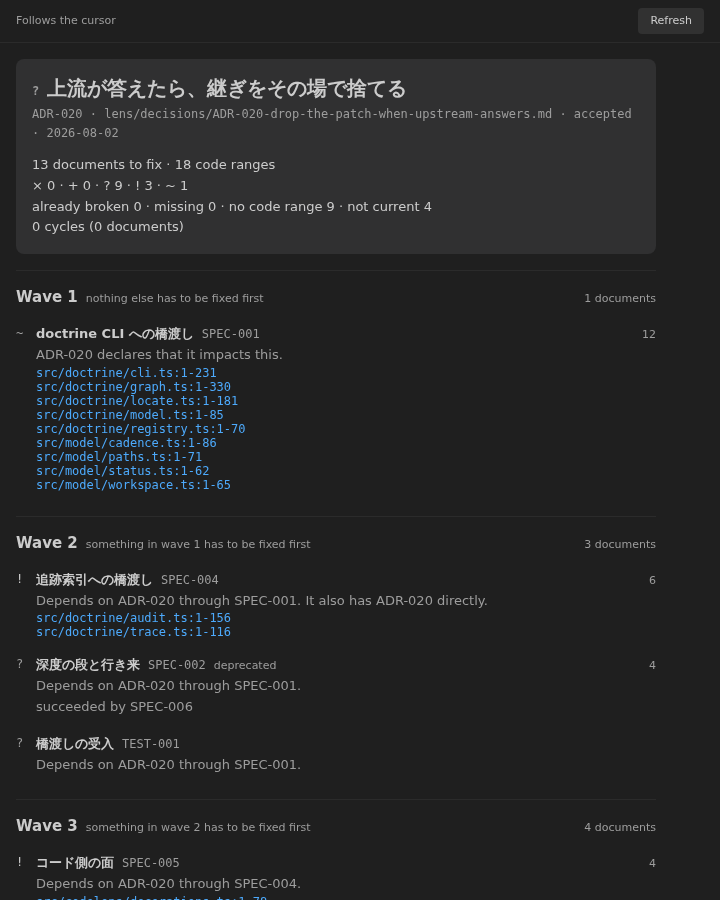
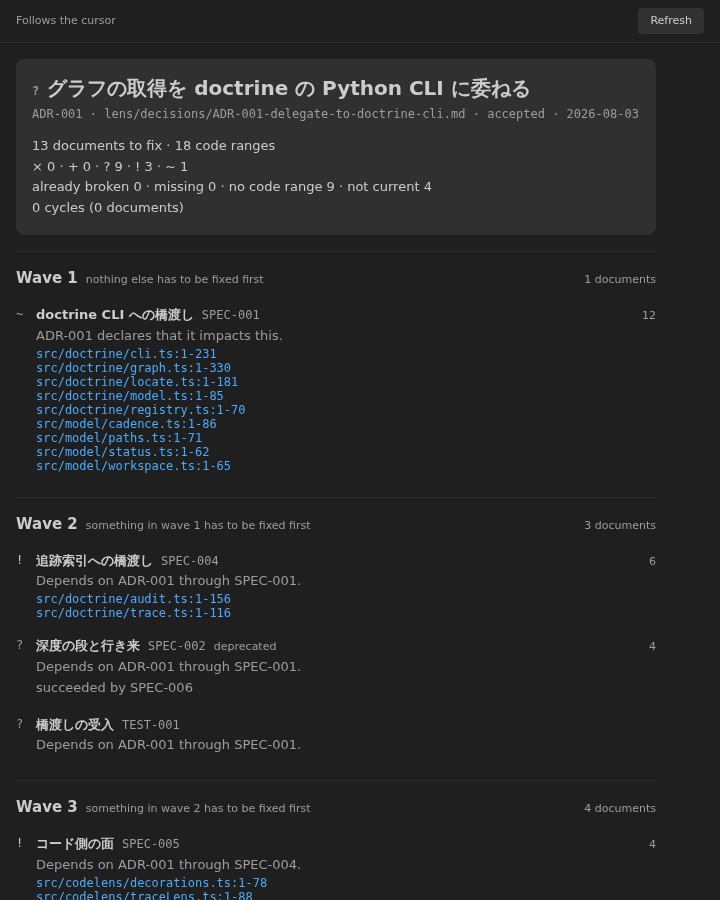
決定を変えても直すものが出てこなかった（CHANGE-020）
ADR-008（取得を二つの拍に分ける）を起点に置くと、明細は 0 行だった。
実装は src/session.ts と src/model/cadence.ts に在るのに、辺が無いので
この製品が何も教えない。同じ形が七本（ADR-001・006〜011）。

上流は正しく判じている。adr_not_landed は本文の id 参照も数えており、
七本とも現行の文書から本文で参照されているので鳴らない。「決定が文書の
上で着地しているか」と「変えたときに何を直すかが引けるか」は別である。
上流は前者を見ている。後者はこの製品の問いであり、この製品が自分の木で
答えられていなかった。

逆から測った。「この ADR は何を縛っているか」を本文から読むと、七本の
うち六本は自分では何も引いていない。代わりに「どの文書がこの ADR を
引いているか」を測り、引いている先だけを impacts に書いた。辺を捏造しない。

  ADR-008 起点: 0 件 → 13 文書・コード 18 か所・波 5
  辺を持たない現行の文書: 13 件 → 6 件

残る 6 件（CTXMAP-001・DECIDED-001・NONGOAL-001・OVERVIEW-001・
OVERVIEW-002・REQ-000）は辺を持たないのが正しい形である。投影と横断の
正本であり、ADR-026 が「辺では指さず、本文で参照する」と決めている。

門にしなかった。型で除くだけの門はこの 6 件を毎回咎める。「辺を持たない
のが正しい型」を実装が持つと、上流の語彙を持つことになる（REQ-003）。

ADR は不変なので本文は一字も触っていない。impacts は決定の中身ではなく、
決定がどこへ効くかの宣言である。

門: 単体 232・check exit 0・監査 error 0 / warn 0 / advisory 0。

diff --git a/doctrine_docs/lens/decisions/CHANGE-020-decisions-with-no-edges.md b/doctrine_docs/lens/decisions/CHANGE-020-decisions-with-no-edges.md
@@ -1,0 +1,121 @@
+---
+id: CHANGE-020
+title: 決定を変えても、直すものが出てこない
+type: CHANGE
+domain: lens
+status: accepted
+owner: doctrine-lens-maintainer
+created: 2026-08-03
+updated: 2026-08-03
+sources: []
+impacts: [SPEC-006]
+llm_context: task
+---
+
+# 決定を変えても、直すものが出てこない
+
+## 何が起きているか
+
+**`ADR-008`（取得を二つの拍に分ける）を起点に置くと、明細は 0 行である。**
+
+```
+直すことになる文書 0 件 / 前提 0 / 繋がらない 92
+```
+
+だがこの決定の実装は在る——`src/session.ts` と `src/model/cadence.ts` である。
+**決定を変えても、この製品は何も教えない。**
+
+同じ形が七本ある。
+
+| | 題 | 辺 |
+|---|---|---|
+| `ADR-001` | グラフの取得を doctrine の Python CLI に委ねる | **0** |
+| `ADR-006` | 作業フォルダが複数のときは統治木を持つものを選ぶ | **0** |
+| `ADR-007` | 表示の原文を英語にし、日本語を翻訳として持つ | **0** |
+| `ADR-008` | 取得を二つの拍に分ける | **0** |
+| `ADR-009` | 既定のキー割り当てを持たない | **0** |
+| `ADR-010` | 実行体を選ぶ設定は作業フォルダから上書きさせない | **0** |
+| `ADR-011` | 起動条件に `onStartupFinished` を足す | **0** |
+
+**七本とも `impacts` も `depends_on` も持たない。**
+
+## 上流は正しく判じている
+
+`adr_not_landed` は鳴らない。**鳴らないのが正解である**——
+この検査は本文の id 参照も数えており、七本とも現行の文書から本文で参照されている。
+
+```
+ADR-001: 本文から参照している現行文書 6 件
+ADR-008: 6 件 / ADR-006: 4 件 / ADR-009: 4 件 …
+```
+
+**「決定が文書の上で着地しているか」と「変えたときに何を直すかが引けるか」は別である。**
+上流は前者を見ている。後者はこの製品の問いであり、**この製品が答えられていない。**
+
+## なぜ効くか
+
+`REQ-000` はこう書いている。
+
+> これを変えたら、何を、どの順で直すことになるか。
+
+**決定は変わる。** `ADR-013` の「等幅は二段」は `ADR-027` が置き換えた。
+`ADR-005` は `deprecated` である。**決定を変えるときこそ、この画面が要る。**
+
+七本のうち `ADR-008`（拍）と `ADR-010`（設定の scope）は、
+**変えると利用者の環境に触る**。そこで「直すものは無い」と出るのは危うい。
+
+## この変更でやること
+
+1. 七本に `impacts` を書く。**その決定が縛っている仕様・実装の文書**を指す。
+2. **辺を捏造しない。** 本当に縛っていないものは指さない。一本ずつ本文を読んで決める。
+3. **「辺を持たない現行の決定」を門にするかを、測ってから決める。**
+   `CTXMAP`・`OVERVIEW`・`DECIDED`・`NONGOAL`・`REQ-000` は辺を持たないのが正しい形なので、
+   型で除くだけの門は擬陽性を生む。
+
+## 見えている難所
+
+**`ADR` は不変である。** 本文は書き換えない。だが `impacts` は frontmatter であり、
+**決定の中身ではなく、決定がどこへ効くかの宣言である。**
+上流の雛形も `impacts` を任意項として持つ。**足すことは決定の書き換えではない。**
+
+ただし**これは判断を含む**。「`ADR-007`（原文は英語）は何を縛っているか」は、
+`src/l10n.ts` と `l10n/bundle.l10n.ja.json` だが、**文書としては `IMPL-001` である。**
+一本ずつ読んで決める。
+
+## 要求元
+
+`REQ-000`「これを変えたら、何を、どの順で直すことになるか」——
+**決定を変えるときに答えられないなら、この製品の中核が自分の木で働いていない。**
+
+## 影響の初期見積
+
+| 区分 | 見積 |
+|---|---|
+| 書き直す文書 | `ADR-001`・`006`〜`011` の frontmatter（7 本） |
+| 新しく作る文書 | `IMPACT-020` |
+| 触る実装 | 無し |
+| 触る門 | 無し（門にするかは測ってから） |
+
+## 実施の記録
+
+2026-08-03 に一周を終えた。
+
+| 起点 | 前 | 後 |
+|---|---|---|
+| `ADR-008`（二つの拍） | **0 件** | **13 文書・コード 18 か所・波 5** |
+| 辺を持たない現行の文書 | 13 件 | **6 件** |
+
+### 逆から測った
+
+「この `ADR` は何を縛っているか」を本文から読むと、**七本のうち六本は自分では何も引いていない。**
+
+代わりに「**どの文書がこの `ADR` を引いているか**」を測った。
+それが実際に効いている先である。決定の側から想像して書くと、**辺を捏造する。**
+
+### 残る 6 件は、辺を持たないのが正しい
+
+`CTXMAP-001`・`DECIDED-001`・`NONGOAL-001`・`OVERVIEW-001`・`OVERVIEW-002`・`REQ-000`。
+投影と横断の正本であり、`ADR-026` が「辺では指さず、本文で参照する」と決めている。
+
+**門にしなかった。** 型で除くだけの門は、この 6 件を毎回咎める。
+「辺を持たないのが正しい型」を実装が持つと、それは上流の語彙を持つことになる（`REQ-003`）。

diff --git a/CHANGELOG.md b/CHANGELOG.md
@@ -5,6 +5,88 @@
 
 「なぜ決めたか」は統治木の ADR が持つ。ここが持つのは「何が変わったか」だけである。
 
+## [0.9.3] — 2026-08-03
+
+**自分で作った門を、自分が読んでいなかった**（CHANGE-019・CHANGE-020・ADR-027）。
+
+門が全部緑の状態から独立に走査をかけ、**30 件の疑い**を挙げ、
+反証を三視点で当てて **23 件**が残った。**いちばん重いのは自分の報告の誤りだった。**
+
+### `npm run check` が赤いまま、「全門が緑」と報告し続けていた
+
+```console
+$ npm run check
+check exit=1
+文書の実測が、いまの木と合わない 4 件
+```
+
+原因は**出力の読み方**である。毎回 `grep -E "^# (pass|fail)|totals"` で絞っていた——
+**`docs:measured` の出力はこの絞りに一行も掛からない。**
+自分で `check` に足した段を、自分が一度も読んでいなかった。**終了コードも見ていなかった。**
+
+三つ重なっていた。
+
+| | 何 |
+|---|---|
+| 1 | 出力を絞って読み、**終了コードを見ていなかった** |
+| 2 | **CI が `docs:measured`・`preview`・`mutate` を一つも走らせていない** |
+| 3 | 門そのものが**誤りの引用を主張として読んだ**（直した記録が門を赤くしていた） |
+
+2 が効く。`TEST-006` は受入 10・11・34 の受け持ちを「画面側（`npm run preview`）」と
+**宣言している**のに、CI は `preview` を呼ばない。**宣言した受け持ちが機械の経路に無い。**
+CI に足した（`docs:measured` 3 秒・`preview` 11 秒）。`mutate` は 25 分なので入れず、
+**入れない理由を `TEST-007` に書いた。**
+
+### この製品の中核の受入が、「落ちなかった」だけで通っていた
+
+受入 1（**利用者が何も選ばずに、カーソルの居る範囲が指す文書が起点になる**）の
+受け持ちと宣言された統合試験に、**主張が一つも無かった。**
+
+主張を足そうとして、**明細の起点は拡張機能ホストから読めない**と分かった——
+起点は webview へ `postMessage` で渡るので痕跡が残らない。
+**できないことを、できるふりで書かない。** 受入 1 を二つに割った。
+
+「主張ゼロの試験」の門が `src/test/` だけを走査しており、
+**`src/integration/` を見ていなかった**のが見逃した理由である。
+**門の走査先が、門の届く範囲である。**
+
+### 決定を変えても、直すものが出てこなかった
+
+**`ADR-008`（取得を二つの拍に分ける）を起点に置くと、明細は 0 行だった。**
+実装は `src/session.ts` と `src/model/cadence.ts` に在るのに、辺が無いので教えられない。
+同じ形が七本（`ADR-001`・`006`〜`011`）。
+
+**逆から測った**——「この `ADR` は何を縛っているか」ではなく
+「**どの文書がこの `ADR` を引いているか**」を測り、引いている先だけを書いた。**辺を捏造しない。**
+
+| 起点 | 前 | 後 |
+|---|---|---|
+| `ADR-008` | **0 件** | **13 文書・コード 18 か所** |
+| 辺を持たない現行の文書 | 13 件 | **6 件** |
+
+残る 6 件は辺を持たないのが正しい（投影と横断の正本）。**門にしなかった**——
+「辺を持たないのが正しい型」を実装が持つと、上流の語彙を持つことになる（`REQ-003`）。
+
+### 同じ形が三度目 — 配布物が三版うしろだった
+
+`doctrine-lens.vsix` が **0.6.0**（木は 0.9.2）。`*.vsix` は `.gitignore` の中に在るので
+誰も咎めない。**公開経路は「`.vsix` を手で上げる」**なので、そのまま届きうる。消して作り直した。
+
+### 他に直したもの
+
+- README の命令名が実体と食い違い（`to read` vs `to show`）、実体の四つが README に無かった
+  → **突き合わせを門にした**
+- 「帯が三つのどれかを教える」→ 帯は一行で、理由は tooltip に在る
+- `ADR-013`「等幅は二段」と `DESIGN.md`「一段」が食い違い、**CSS に等幅 11px が一箇所**残っていた。
+  意匠の門が**族を混ぜて検めていた**ため素通し → 族ごとに検める門を足し、捕まえてから直した。
+  `ADR` は不変なので `ADR-027` で置き換えた
+- **木も plugin も無い初回の利用者に、plugin の導入手順が永久に出なかった**
+
+### 門
+
+- 単体 **232 件**（230 → 232）。潰しの表 72 行（生き残り 0・exit 0）。統合 10/10。
+- `npm run check` **exit 0**。監査 error 0・warn 0・**advisory 0**。
+
 ## [0.9.2] — 2026-08-03
 
 **捨てた概念の残骸を、二箇所から取り除いた**（CHANGE-017・CHANGE-018）。

diff --git a/doctrine_docs/lens/decisions/IMPACT-020-decisions-with-no-edges.md b/doctrine_docs/lens/decisions/IMPACT-020-decisions-with-no-edges.md
@@ -1,0 +1,66 @@
+---
+id: IMPACT-020
+title: 決定に行き先を書くことの影響
+type: IMPACT
+domain: lens
+status: current
+owner: doctrine-lens-maintainer
+created: 2026-08-03
+updated: 2026-08-03
+sources: []
+depends_on: [CHANGE-020]
+impacts: [SPEC-006]
+llm_context: task
+---
+
+# 決定に行き先を書くことの影響
+
+## 影響する文書
+
+`ADR-001`・`006`〜`011` の frontmatter に `impacts` を書いた。**本文は一字も触っていない**——
+`ADR` は不変であり、`impacts` は決定の中身ではなく**決定がどこへ効くかの宣言**である。
+
+| | 書いた `impacts` | 根拠 |
+|---|---|---|
+| `ADR-001` | `SPEC-001` | 上流への橋がこの決定を引いている |
+| `ADR-006` | `SPEC-001` | 同上 |
+| `ADR-007` | `SPEC-005`・`IMPL-001` | 原文の規律を引いているのはこの二つ |
+| `ADR-008` | `SPEC-001`・`TEST-001` | 二つの拍の受入は `TEST-001` に在る |
+| `ADR-009` | `SPEC-005`・`IMPL-001` | 鍵割り当ての不在を引いている |
+| `ADR-010` | `SPEC-001` | 設定の scope を引いている |
+| `ADR-011` | `SPEC-001` | 起動条件を引いている |
+
+**辺を捏造していない。** 「その文書が本文でこの `ADR` を引いているか」を実測し、
+引いている先だけを書いた。
+
+## 影響する実装
+
+**無い。**
+
+## 影響する門
+
+**無い。** 「辺を持たない現行の決定」を門にするかは**測ってから決める**（`CHANGE-020`）。
+`CTXMAP`・`OVERVIEW`・`DECIDED`・`NONGOAL`・`REQ-000` は辺を持たないのが正しい形なので、
+型で除くだけの門は擬陽性を生む。
+
+## 実測
+
+| 起点 | 前 | 後 |
+|---|---|---|
+| `ADR-008`（二つの拍） | **0 件** | **13 文書・コード 18 か所・波 5** |
+| `ADR-001`（上流へ委ねる） | 0 件 | 13 文書・コード 18 か所 |
+| `ADR-007`（原文は英語） | 0 件 | 5 文書・コード 7 か所 |
+| `ADR-010`（設定の scope） | 0 件 | 13 文書・コード 18 か所 |
+| 辺を持たない現行の文書 | **13 件** | **6 件** |
+
+残る 6 件（`CTXMAP-001`・`DECIDED-001`・`NONGOAL-001`・`OVERVIEW-001`・`OVERVIEW-002`・
+`REQ-000`）は、**辺を持たないのが正しい形**である——投影と横断の正本であり、
+`ADR-026` が「辺では指さず、本文で参照する」と決めている。
+
+## 順序の不変条件
+
+**逆から測る。** 「この `ADR` は何を縛っているか」を本文から読むと、
+七本のうち六本は自分では何も引いていない（`ADR-006` だけが `SPEC-001` を引く）。
+
+**「どの文書がこの `ADR` を引いているか」を測る。** それが実際に効いている先である。
+決定の側から想像して書くと、辺を捏造することになる。

diff --git a/doctrine_docs/_system/overview.md b/doctrine_docs/_system/overview.md
@@ -72,6 +72,7 @@ sources: []
 | CHANGE-016 | CHANGE | lens | 前提の数だけを出して、行き先を出していない |
 | CHANGE-017 | CHANGE | lens | 生きている ICD が、捨てた概念の正本を名乗っている |
 | CHANGE-018 | CHANGE | lens | 撮り直さない写しが、消えずに残る |
+| CHANGE-020 | CHANGE | lens | 決定を変えても、直すものが出てこない |
 | IMPACT-001 | IMPACT | lens | 文書とコードの往復を加えることの影響 |
 | IMPACT-002 | IMPACT | lens | 配れる状態にすることの影響 |
 | IMPACT-003 | IMPACT | lens | 公開前監査の直しの影響 |
@@ -90,6 +91,7 @@ sources: []
 | IMPACT-016 | IMPACT | lens | 前提の行き先を出すことの影響 |
 | IMPACT-017 | IMPACT | lens | 捨てた概念の名乗りを外すことの影響 |
 | IMPACT-018 | IMPACT | lens | 写しを撮る前に掃除することの影響 |
+| IMPACT-020 | IMPACT | lens | 決定に行き先を書くことの影響 |
 | IMPL-001 | IMPL | lens | 拡張機能の部品の配置 |
 | TEST-001 | TEST | lens | 橋渡しの受入 |
 | TEST-004 | TEST | lens | 追跡索引の橋渡しの受入 |

diff --git a/doctrine_docs/lens/decisions/ADR-007-english-source-strings.md b/doctrine_docs/lens/decisions/ADR-007-english-source-strings.md
@@ -6,8 +6,9 @@ domain: lens
 status: accepted
 owner: doctrine-lens-maintainer
 created: 2026-07-28
-updated: 2026-07-28
+updated: 2026-08-03
 sources: []
+impacts: [SPEC-005, IMPL-001]
 llm_context: task
 ---
 

diff --git a/doctrine_docs/lens/decisions/ADR-008-two-refresh-cadences.md b/doctrine_docs/lens/decisions/ADR-008-two-refresh-cadences.md
@@ -6,8 +6,9 @@ domain: lens
 status: accepted
 owner: doctrine-lens-maintainer
 created: 2026-07-28
-updated: 2026-07-28
+updated: 2026-08-03
 sources: []
+impacts: [SPEC-001, TEST-001]
 llm_context: task
 ---
 

diff --git a/doctrine_docs/lens/decisions/ADR-009-no-default-keybindings.md b/doctrine_docs/lens/decisions/ADR-009-no-default-keybindings.md
@@ -6,8 +6,9 @@ domain: lens
 status: accepted
 owner: doctrine-lens-maintainer
 created: 2026-07-28
-updated: 2026-07-28
+updated: 2026-08-03
 sources: []
+impacts: [SPEC-005, IMPL-001]
 llm_context: task
 ---
 

diff --git a/doctrine_docs/lens/decisions/ADR-001-delegate-to-doctrine-cli.md b/doctrine_docs/lens/decisions/ADR-001-delegate-to-doctrine-cli.md
@@ -6,8 +6,9 @@ domain: lens
 status: accepted
 owner: doctrine-lens-maintainer
 created: 2026-07-28
-updated: 2026-07-28
+updated: 2026-08-03
 sources: []
+impacts: [SPEC-001]
 llm_context: task
 ---
 

diff --git a/doctrine_docs/lens/decisions/ADR-006-multi-root-workspace.md b/doctrine_docs/lens/decisions/ADR-006-multi-root-workspace.md
@@ -6,8 +6,9 @@ domain: lens
 status: accepted
 owner: doctrine-lens-maintainer
 created: 2026-07-28
-updated: 2026-07-28
+updated: 2026-08-03
 sources: []
+impacts: [SPEC-001]
 llm_context: task
 ---
 

diff --git a/doctrine_docs/lens/decisions/ADR-010-machine-scoped-executables.md b/doctrine_docs/lens/decisions/ADR-010-machine-scoped-executables.md
@@ -6,8 +6,9 @@ domain: lens
 status: accepted
 owner: doctrine-lens-maintainer
 created: 2026-07-28
-updated: 2026-07-28
+updated: 2026-08-03
 sources: []
+impacts: [SPEC-001]
 llm_context: task
 ---
 

diff --git a/doctrine_docs/lens/decisions/ADR-011-activate-on-startup.md b/doctrine_docs/lens/decisions/ADR-011-activate-on-startup.md
@@ -6,8 +6,9 @@ domain: lens
 status: accepted
 owner: doctrine-lens-maintainer
 created: 2026-07-28
-updated: 2026-07-28
+updated: 2026-08-03
 sources: []
+impacts: [SPEC-001]
 llm_context: task
 ---
 
